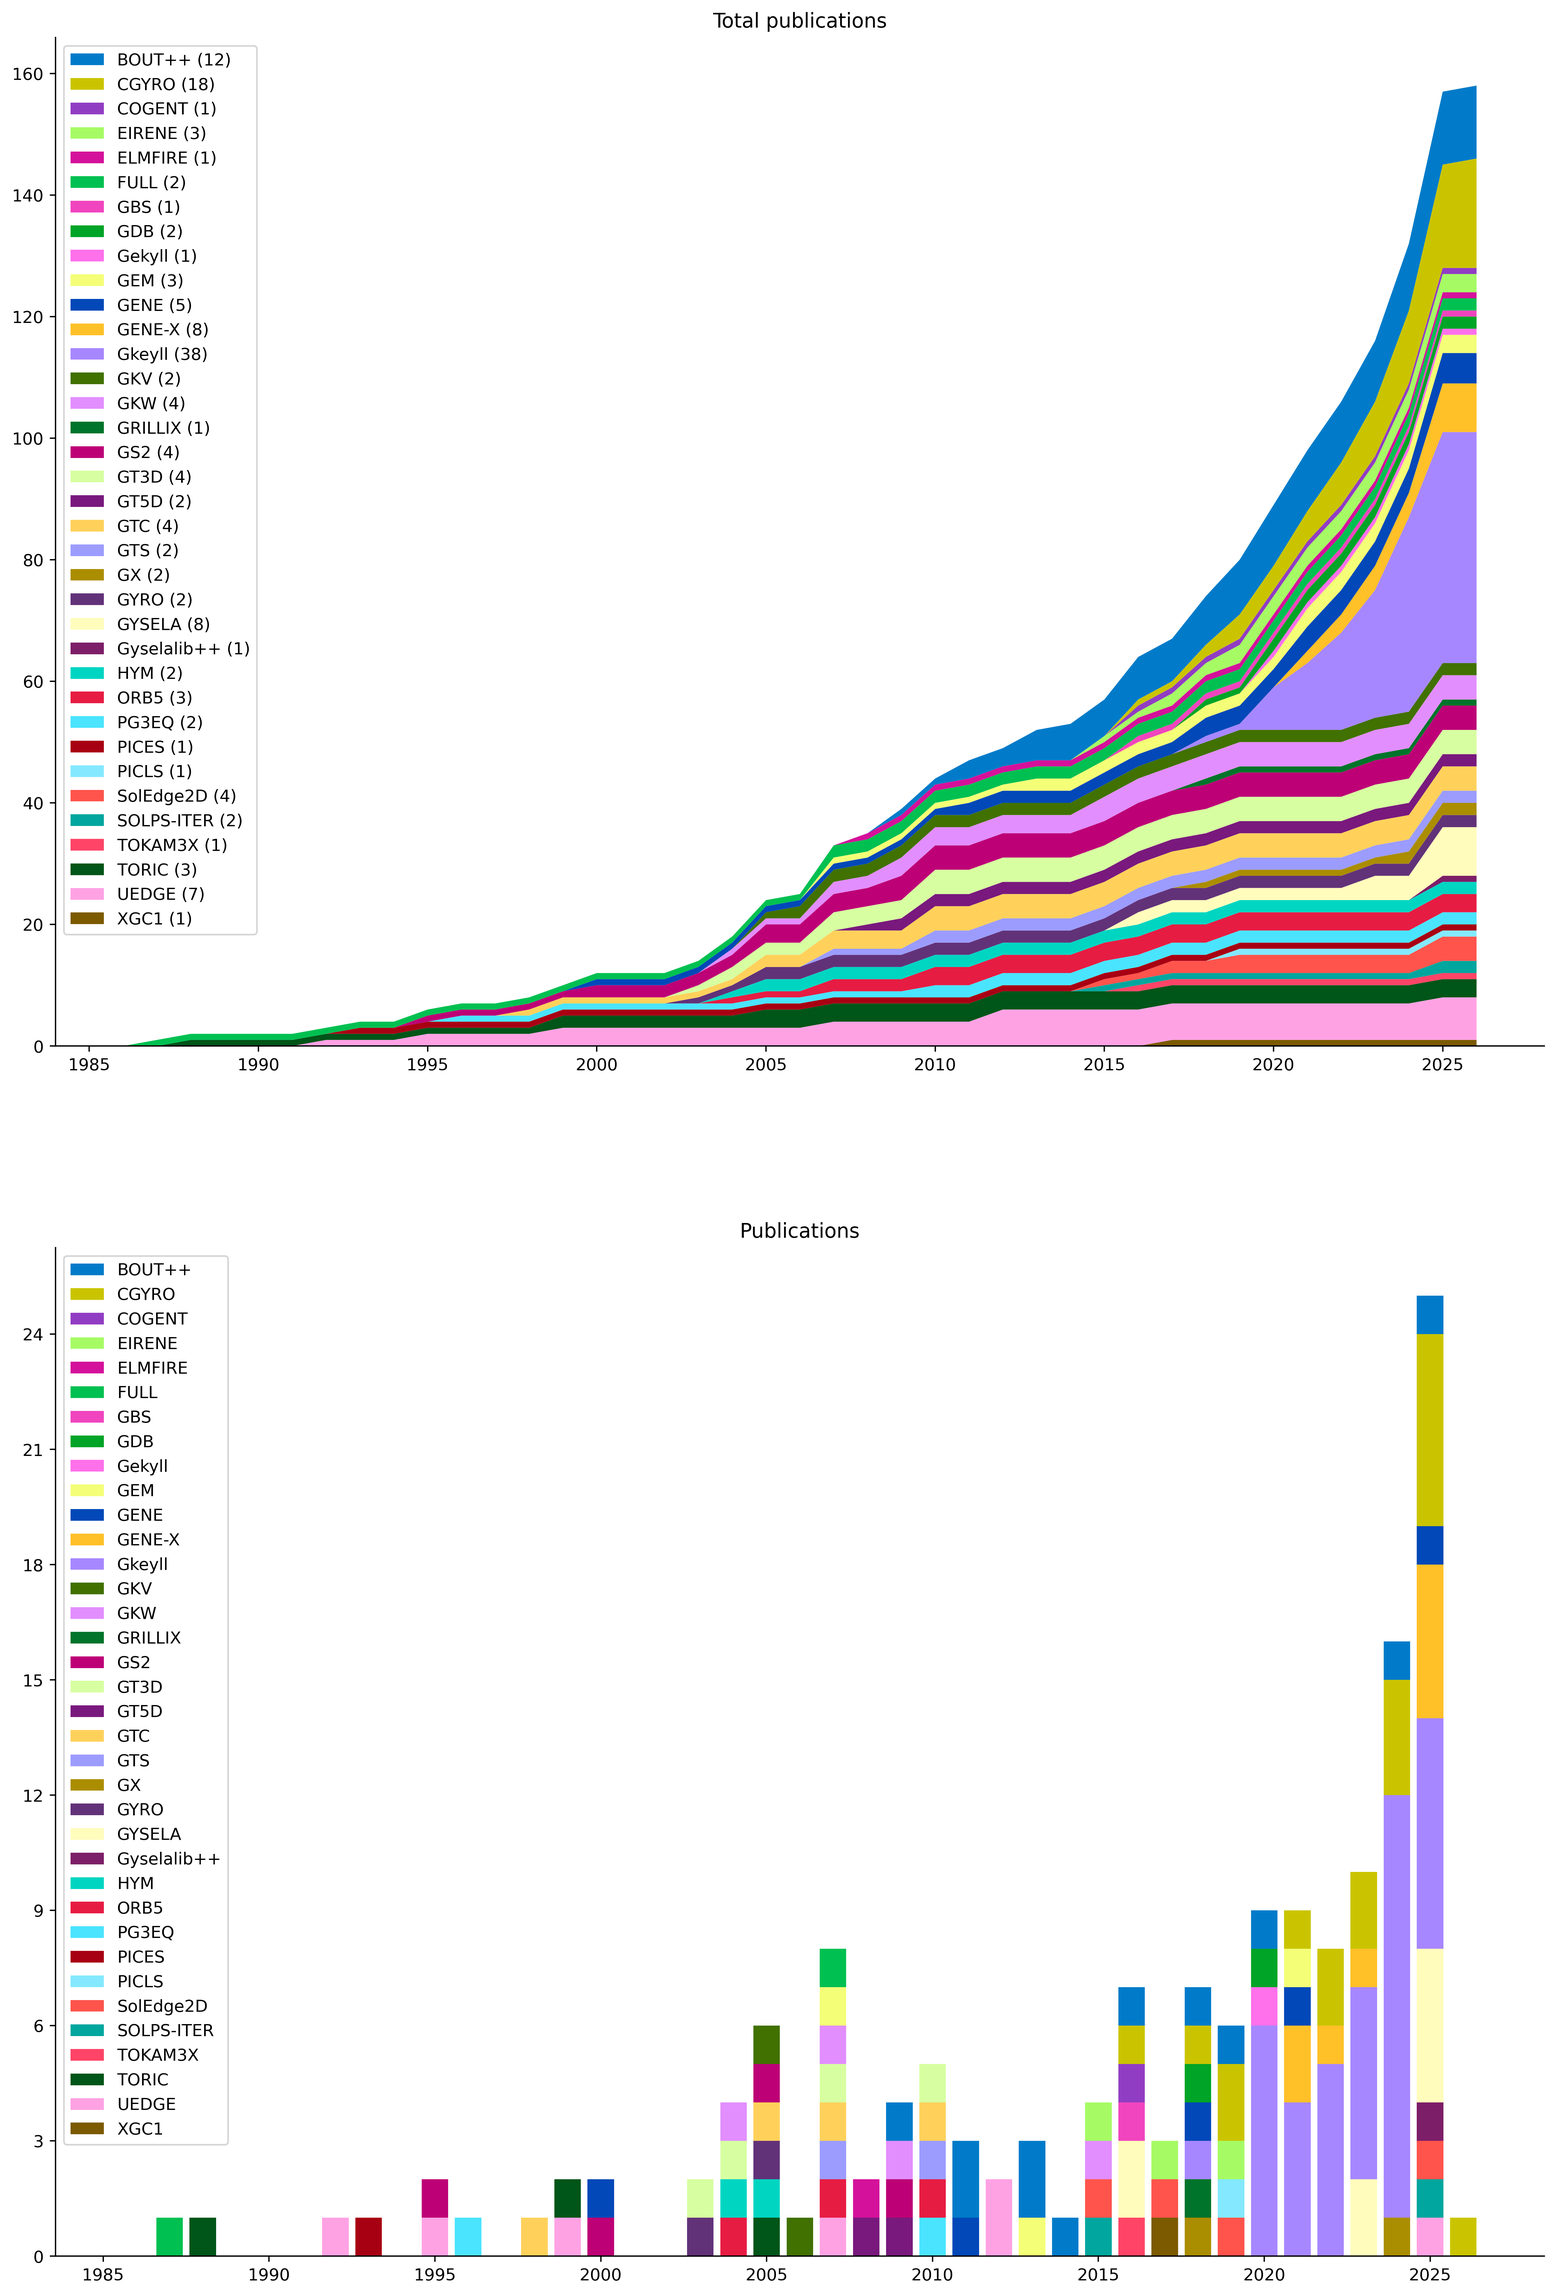
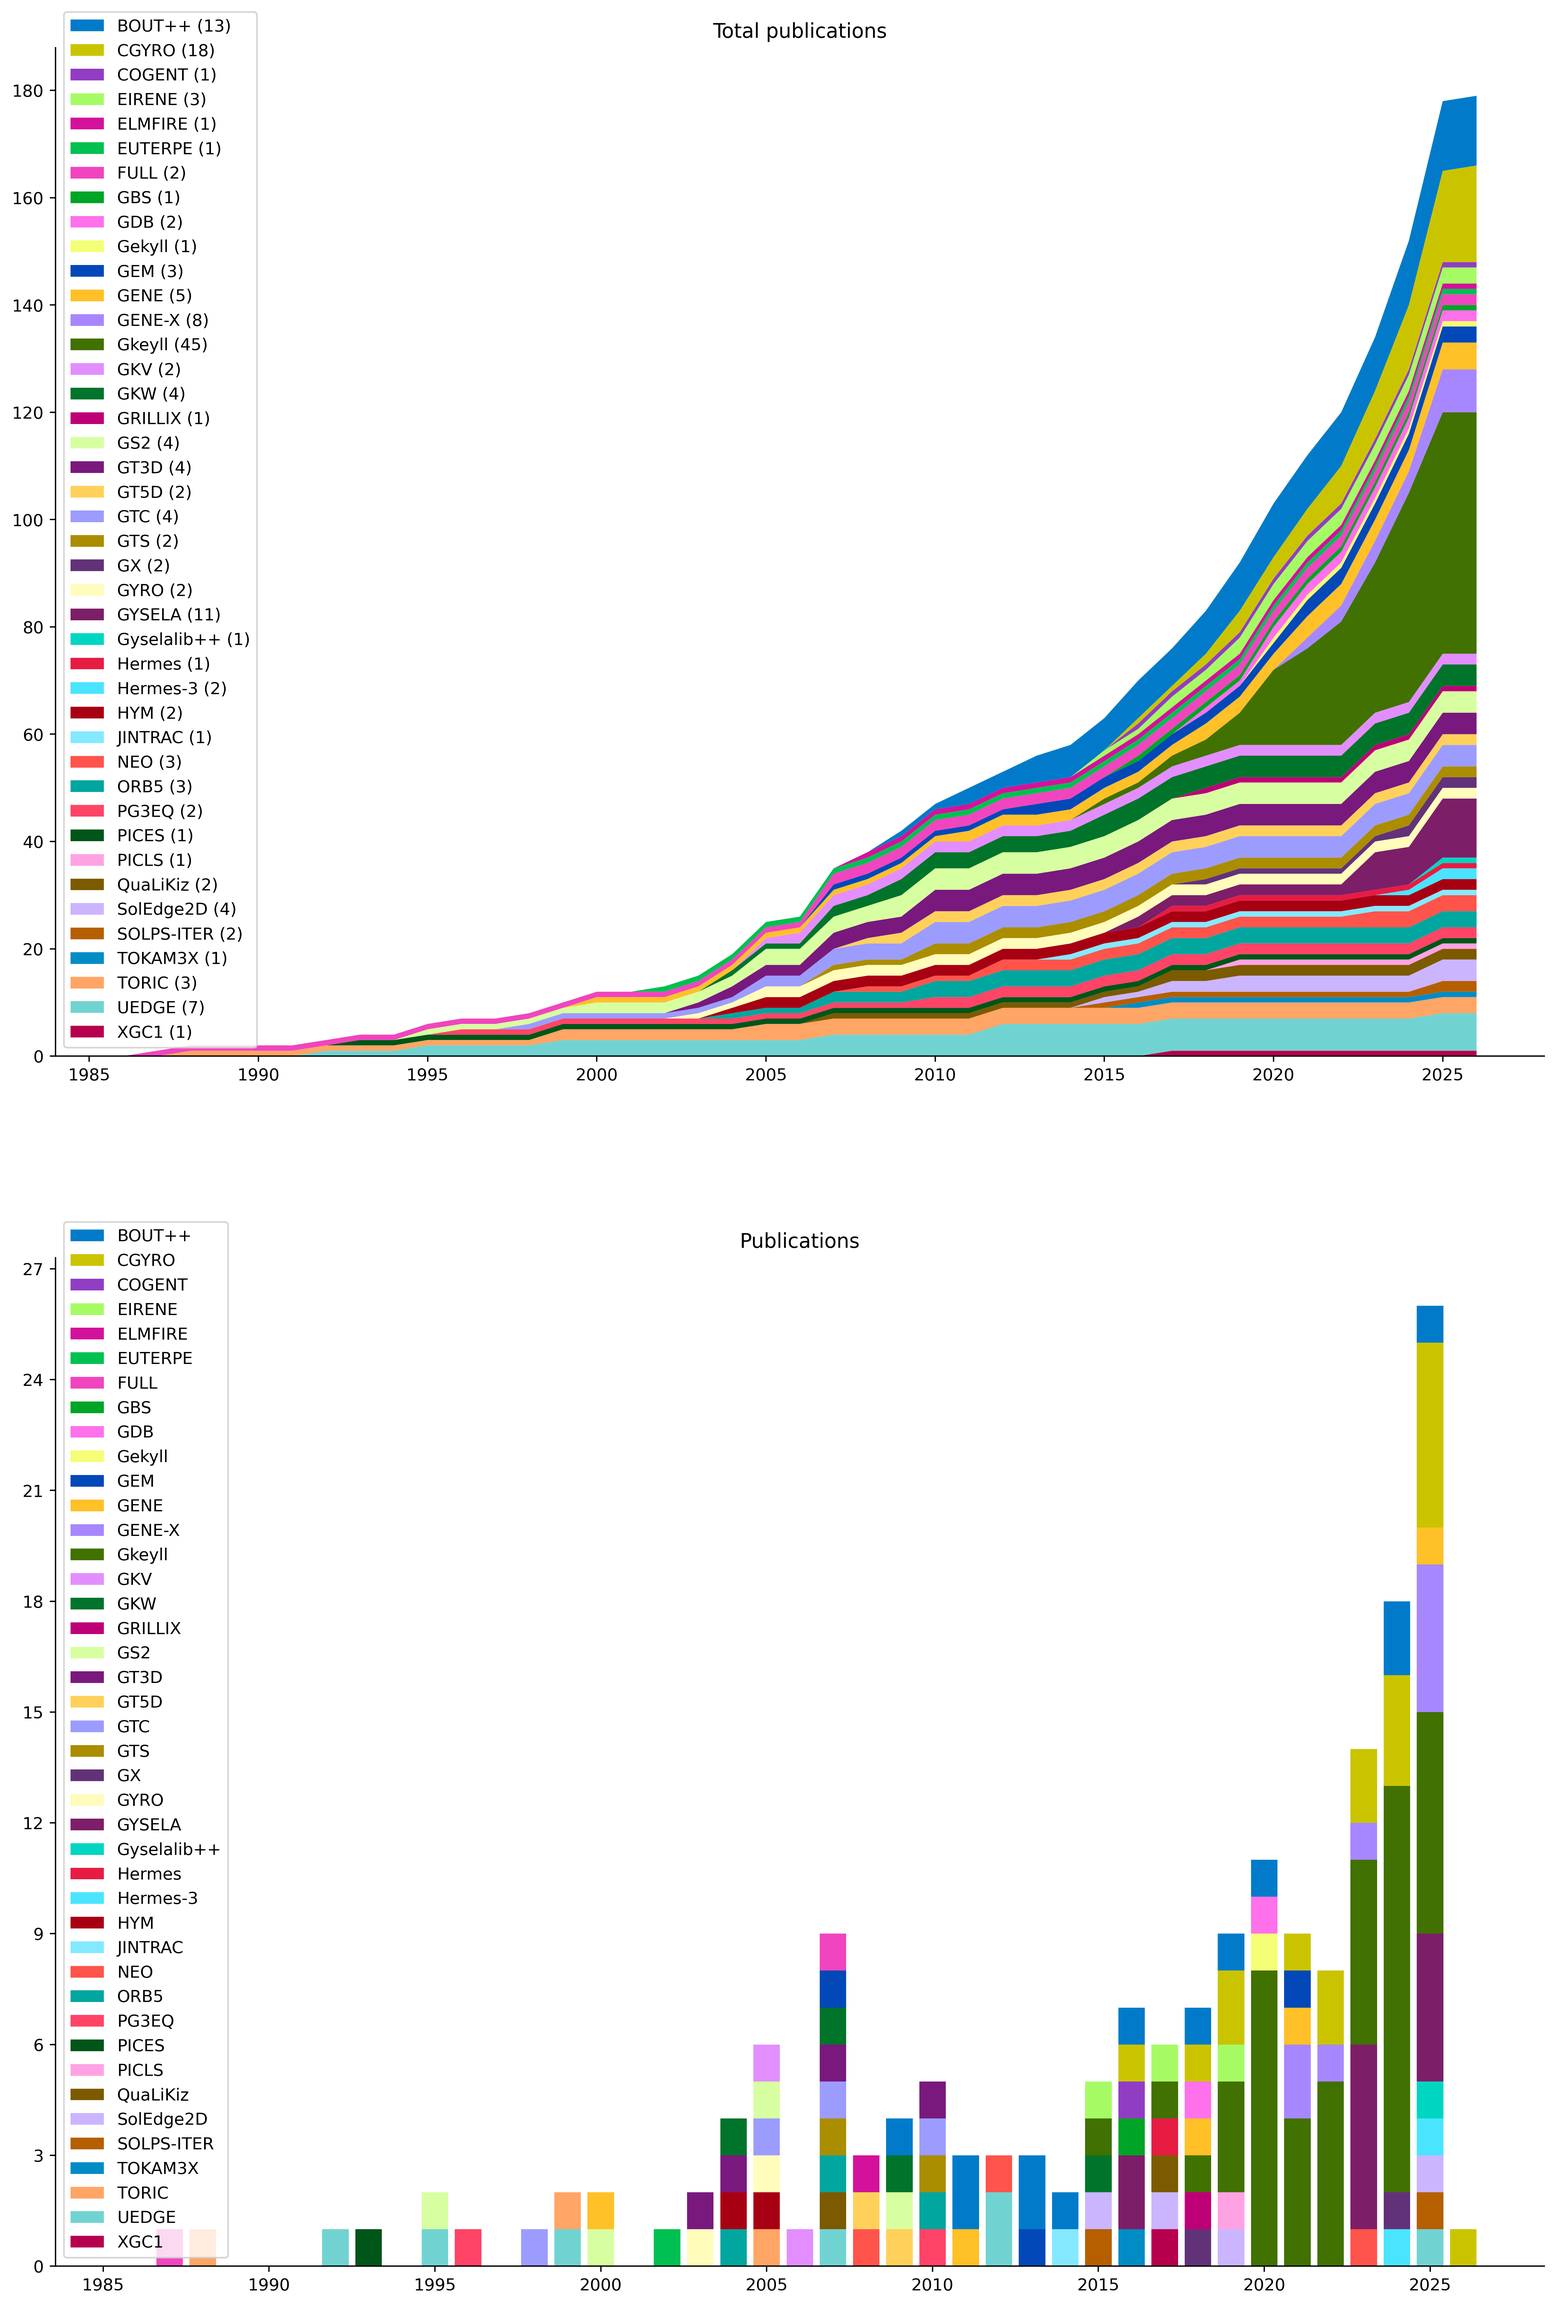
feat: add publications

diff --git a/README.md b/README.md
@@ -48,6 +48,8 @@
   - GENE-X
 - Simulations of edge and SOL turbulence in diverted negative and positive triangularity plasmas. Ulbl at el. (2025) [10.1088/1741-4326/adfd70](https://doi.org/10.1088/1741-4326/adfd70)
   - GENE-X
+- Modeling of convective cells, turbulence, and transport induced by a radio-frequency antenna in the tokamak boundary plasma. Umansky at el. (2025) [10.1088/1361-6587/ae1bd1](https://doi.org/10.1088/1361-6587/ae1bd1)
+  - Hermes-3
 - The simulation of mode coupling during ELM crash by using BOUT++. Zhu at el. (2025) [10.1063/5.0270211](https://doi.org/10.1063/5.0270211)
   - BOUT++
 - Plasma edge and scrape-off layer turbulence in gyrokinetic simulations of negative triangularity plasmas. Bernard at el. (2024) [10.1088/1361-6587/ad8186](https://doi.org/10.1088/1361-6587/ad8186)
@@ -58,6 +60,8 @@
   - Gkeyll
 - The kinetic analog of the pressure-strain interaction. Conley at el. (2024) [10.1063/5.0231200](https://doi.org/10.1063/5.0231200)
   - Gkeyll
+- Hermes-3: Multi-component plasma simulations with BOUT++. Dudson at el. (2024) [10.1016/j.cpc.2023.108991](https://doi.org/10.1016/j.cpc.2023.108991)
+  - Hermes-3, BOUT++
 - Scale Separation Effects on Simulations of Plasma Turbulence. Edyvean at el. (2024) [10.3847/1538-4357/ad5cf5](https://doi.org/10.3847/1538-4357/ad5cf5)
   - Gkeyll
 - Conservative discontinuous Galerkin interpolation: Sheared boundary conditions. Francisquez at el. (2024) [10.1016/j.cpc.2024.109109](https://doi.org/10.1016/j.cpc.2024.109109)
@@ -84,10 +88,14 @@
   - Gkeyll
 - Effect of neutral interactions on parallel transport and blob dynamics in gyrokinetic scrape-off layer simulations. Bernard at el. (2023) [10.1063/5.0160588](https://doi.org/10.1063/5.0160588)
   - Gkeyll
+- Solver comparison for Poisson-like equations on tokamak geometries. Bourne at el. (2023) [10.1016/j.jcp.2023.112249](https://doi.org/10.1016/j.jcp.2023.112249)
+  - GYSELA
 - An investigation of shock formation vs shock mitigation of colliding plasma jets. Cagas at el. (2023) [10.1063/5.0135389](https://doi.org/10.1063/5.0135389)
   - Gkeyll
 - Toward continuum gyrokinetic study of high-field mirrors. Francisquez at el. (2023) [10.1063/5.0152440](https://doi.org/10.1063/5.0152440)
   - Gkeyll
+- The problem of capturing marginality in model reductions of turbulence. Gillot at el. (2023) [10.1088/1361-6587/acc276](https://doi.org/10.1088/1361-6587/acc276)
+  - GYSELA
 - Phase-space Energization of Ions in Oblique Shocks. Juno at el. (2023) [10.3847/1538-4357/acaf53](https://doi.org/10.3847/1538-4357/acaf53)
   - Gkeyll
 - Self-consistent gyrokinetic modeling of turbulent and neoclassical tungsten transport in toroidally rotating plasmas. Lim at el. (2023) [10.1063/5.0157428](https://doi.org/10.1063/5.0157428)
@@ -100,6 +108,8 @@
   - CGYRO
 - Influence of collisions on the validation of global gyrokinetic simulations in the edge and scrape-off layer of TCV. Ulbl at el. (2023) [10.1063/5.0144688](https://doi.org/10.1063/5.0144688)
   - GENE-X
+- Impact of magnetic ripple on neoclassical equilibrium in gyrokinetic simulations. Varennes at el. (2023) [10.1088/1361-6587/acb79a](https://doi.org/10.1088/1361-6587/acb79a)
+  - GYSELA, NEO
 - Safety factor influence on the edge *E×B* velocity establishment in tokamak plasmas. Varennes at el. (2023) [10.1088/1361-6587/ad1653](https://doi.org/10.1088/1361-6587/ad1653)
   - GYSELA
 - Comparing single-node and multi-node performance of an important fusion HPC code benchmark. Belli at el. (2022) [10.1145/3491418.3535130](https://doi.org/10.1145/3491418.3535130)
@@ -132,6 +142,8 @@
   - GENE-X
 - Implementation and verification of a conservative, multi-species, gyro-averaged, full-*f*, Lenard-Bernstein/Dougherty collision operator in the gyrokinetic code GENE-X. Ulbl at el. (2021) [10.1002/ctpp.202100180](https://doi.org/10.1002/ctpp.202100180)
   - GENE-X
+- Investigating shear flow through continuum gyrokinetic simulations of limiter biasing in the Texas Helimak. Bernard at el. (2020) [10.1063/5.0003904](https://doi.org/10.1063/5.0003904)
+  - Gkeyll
 - Plasma-material boundary conditions for discontinuous Galerkin continuum-kinetic simulations, with a focus on secondary electron emission. Cagas at el. (2020) [10.1016/j.jcp.2019.109215](https://doi.org/10.1016/j.jcp.2019.109215)
   - Gkeyll
 - Conservative discontinuous Galerkin scheme of a gyro-averaged Dougherty collision operator. Francisquez at el. (2020) [10.1088/1741-4326/aba0c9](https://doi.org/10.1088/1741-4326/aba0c9)
@@ -142,11 +154,15 @@
   - Gkeyll
 - Alias-Free, Matrix-Free, and Quadrature-Free Discontinuous Galerkin Algorithms for (Plasma) Kinetic Equations. Hakim and Juno (2020) [10.1109/SC41405.2020.00077](https://doi.org/10.1109/SC41405.2020.00077)
   - Gkeyll
+- Continuum electromagnetic gyrokinetic simulations of turbulence in the tokamak scrape-off layer and laboratory devices. Hakim at el. (2020) [10.1063/1.5141157](https://doi.org/10.1063/1.5141157)
+  - Gkeyll
 - Simulations of divertor heat flux width using transport code with cross-field drifts under the BOUT++ framework. Li at el. (2020) [10.1063/1.5126884](https://doi.org/10.1063/1.5126884)
   - BOUT++
 - Electromagnetic full-*f* gyrokinetics in the tokamak edge with discontinuous Galerkin methods. Mandell at el. (2020) [10.1017/S0022377820000070](https://doi.org/10.1017/S0022377820000070)
   - Gkeyll
 - Exact and locally implicit source term solvers for multifluid-Maxwell systems. Wang at el. (2020) [10.1016/j.jcp.2020.109510](https://doi.org/10.1016/j.jcp.2020.109510)
+  - Gkeyll
+- Gyrokinetic continuum simulations of plasma turbulence in the Texas Helimak. Bernard at el. (2019) [10.1063/1.5085457](https://doi.org/10.1063/1.5085457)
   - Gkeyll
 - Collisional gyrokinetic full-f particle-in-cell simulations on open field lines with PICLS. Boesl at el. (2019) [10.1002/ctpp.201900117](https://doi.org/10.1002/ctpp.201900117)
   - PICLS, full-f, particle-in-cell
@@ -158,6 +174,10 @@
   - SolEdge2D, EIRENE
 - CGYRO Performance on Power9 CPUs and Volta GPUs. Sfiligoi at el. (2019) [10.1007/978-3-030-02465-9_24](https://doi.org/10.1007/978-3-030-02465-9_24)
   - CGYRO
+- Full-*f* gyrokinetic simulation of turbulence in a helical open-field-line plasma. Shi at el. (2019) [10.1063/1.5074179](https://doi.org/10.1063/1.5074179)
+  - Gkeyll, full-f
+- Temperature-dependent Saturation of Weibel-type Instabilities in Counter-streaming Plasmas. Skoutnev at el. (2019) [10.3847/2041-8213/ab0556](https://doi.org/10.3847/2041-8213/ab0556)
+  - Gkeyll
 - Discontinuous Galerkin algorithms for fully kinetic plasmas. Juno at el. (2018) [10.1016/j.jcp.2017.10.009](https://doi.org/10.1016/j.jcp.2017.10.009)
   - Gkeyll
 - Calculation of two-dimension radial electric field in boundary plasmas by using BOUT++. Li at el. (2018) [10.1016/j.cpc.2018.03.003](https://doi.org/10.1016/j.cpc.2018.03.003)
@@ -174,6 +194,12 @@
   - SolEdge2D, EIRENE
 - Gyrokinetic projection of the divertor heat-flux width from present tokamaks to ITER. Chang at el. (2017) [10.1088/1741-4326/aa7efb](https://doi.org/10.1088/1741-4326/aa7efb)
   - XGC1
+- Tractable flux-driven temperature, density, and rotation profile evolution with the quasilinear gyrokinetic transport model QuaLiKiz. Citrin at el. (2017) [10.1088/1361-6587/aa8aeb](https://doi.org/10.1088/1361-6587/aa8aeb)
+  - QuaLiKiz
+- Hermes: global plasma edge fluid turbulence simulations. Dudson and Leddy (2017) [10.1088/1361-6587/aa63d2](https://doi.org/10.1088/1361-6587/aa63d2)
+  - Hermes
+- Gyrokinetic continuum simulation of turbulence in a straight open-field-line plasma. Shi at el. (2017) [10.1017/S002237781700037X](https://doi.org/10.1017/S002237781700037X)
+  - Gkeyll
 - An approach to increase reliability of HPC simulation, application to the Gysela5D code. Bigot at el. (2016) [10.1051/proc/201653015](https://doi.org/10.1051/proc/201653015)
   - GYSELA
 - A high-accuracy Eulerian gyrokinetic solver for collisional plasmas. Candy at el. (2016) [10.1016/j.jcp.2016.07.039](https://doi.org/10.1016/j.jcp.2016.07.039)
@@ -192,16 +218,22 @@
   - SolEdge2D, EIRENE
 - Enhanced stabilisation of trapped electron modes by collisional energy scattering in tokamaks. Manas at el. (2015) [10.1063/1.4922754](https://doi.org/10.1063/1.4922754)
   - GKW
+- A gyrokinetic one-dimensional scrape-off layer model of an edge-localized mode heat pulse. Shi at el. (2015) [10.1063/1.4907160](https://doi.org/10.1063/1.4907160)
+  - Gkeyll
 - The new SOLPS-ITER code package. Wiesen at el. (2015) [10.1016/j.jnucmat.2014.10.012](https://doi.org/10.1016/j.jnucmat.2014.10.012)
   - SOLPS-ITER
 - BOUT++: Recent and current developments. Dudson at el. (2014) [10.1017/S0022377814000816](https://doi.org/10.1017/S0022377814000816)
   - BOUT++
+- JINTRAC: A System of Codes for Integrated Simulation of Tokamak Scenarios. Romanelli at el. (2014) [10.1585/pfr.9.3403023](https://doi.org/10.1585/pfr.9.3403023)
+  - JINTRAC
 - Benchmarking gyrokinetic simulations in a toroidal flux-tube. Chen at el. (2013) [10.1063/1.4821982](https://doi.org/10.1063/1.4821982)
   - GEM
 - Five-field simulations of peeling-ballooning modes using BOUT++ code. Xia and Xu (2013) [10.1063/1.4801006](https://doi.org/10.1063/1.4801006)
   - BOUT++
 - Six-field two-fluid simulations of peeling-ballooning modes using BOUT++. Xia at el. (2013) [10.1088/0029-5515/53/7/073009](https://doi.org/10.1088/0029-5515/53/7/073009)
   - BOUT++
+- Full linearized Fokker-Planck collisions in neoclassical transport simulations. Belli and Candy (2012) [10.1088/0741-3335/54/1/015015](https://doi.org/10.1088/0741-3335/54/1/015015)
+  - NEO
 - Coupled core-edge simulations of H-mode buildup using the Fusion Application for Core-Edge Transport Simulations (FACETS) code. Hakim at el. (2012) [10.1063/1.3693148](https://doi.org/10.1063/1.3693148)
   - UEDGE
 - Improving parallel scalability for edge plasma transport simulations with neutral gas species. McCourt at el. (2012) [10.1088/1749-4699/5/1/014012](https://doi.org/10.1088/1749-4699/5/1/014012)
@@ -210,6 +242,8 @@
   - BOUT++
 - The global version of the gyrokinetic turbulence code GENE. Görler at el. (2011) [10.1016/j.jcp.2011.05.034](https://doi.org/10.1016/j.jcp.2011.05.034)
   - GENE
+- Vlasov modelling of parallel transport in a tokamak scrape-off layer. Manfredi at el. (2011) [10.1088/0741-3335/53/1/015012](https://doi.org/10.1088/0741-3335/53/1/015012)
+  - edge-localized modes
 - Nonlinear ELM simulations based on a nonideal peeling-ballooning model using the BOUT++ code. Xu at el. (2011) [10.1088/0029-5515/51/10/103040](https://doi.org/10.1088/0029-5515/51/10/103040)
   - BOUT++
 - Gyrokinetic simulations of turbulent transport. Garbet at el. (2010) [10.1088/0029-5515/50/4/043002](https://doi.org/10.1088/0029-5515/50/4/043002)
@@ -222,10 +256,14 @@
   - GT5D
 - The nonlinear gyro-kinetic flux tube code GKW. Peeters at el. (2009) [10.1016/j.cpc.2009.07.001](https://doi.org/10.1016/j.cpc.2009.07.001)
   - GKW
+- Kinetic calculation of neoclassical transport including self-consistent electron and impurity dynamics. Belli and Candy (2008) [10.1088/0741-3335/50/9/095010](https://doi.org/10.1088/0741-3335/50/9/095010)
+  - NEO
 - Full *f* gyrokinetic method for particle simulation of tokamak transport. Heikkinen at el. (2008) [10.1016/j.jcp.2008.02.013](https://doi.org/10.1016/j.jcp.2008.02.013)
   - ELMFIRE
 - Conservative global gyrokinetic toroidal full-*f* five-dimensional Vlasov simulation. Idomura at el. (2008) [10.1016/j.cpc.2008.04.005](https://doi.org/10.1016/j.cpc.2008.04.005)
   - GT5D
+- A new gyrokinetic quasilinear transport model applied to particle transport in tokamak plasmas. Bourdelle at el. (2007) [10.1063/1.2800869](https://doi.org/10.1063/1.2800869)
+  - QuaLiKiz
 - Introducing FACETS, the Framework Application for Core-Edge Transport Simulations. Cary at el. (2007) [10.1088/1742-6596/78/1/012086](https://doi.org/10.1088/1742-6596/78/1/012086)
   - UEDGE
 - Electromagnetic gyrokinetic *δf* particle-in-cell turbulence simulation with realistic equilibrium profiles and geometry. Chen and Parker (2007) [10.1016/j.jcp.2006.05.028](https://doi.org/10.1016/j.jcp.2006.05.028)
@@ -253,6 +291,8 @@
   - GYRO
 - Global gyrokinetic simulation of ion temperature gradient driven turbulence in plasmas using a canonical Maxwellian distribution. Idomura at el. (2003) [10.1088/0029-5515/43/4/303](https://doi.org/10.1088/0029-5515/43/4/303)
   - GT3D
+- Energy conservation in a nonlinear gyrokinetic particle-in-cell code for ion-temperature-gradient-driven modes in θ-pinch geometry. Hatzky at el. (2002) [10.1063/1.1449889](https://doi.org/10.1063/1.1449889)
+  - EUTERPE
 - Electron Temperature Gradient Turbulence. Dorland at el. (2000) [10.1103/PhysRevLett.85.5579](https://doi.org/10.1103/PhysRevLett.85.5579)
   - GS2
 - Electron temperature gradient driven turbulence. Jenko at el. (2000) [10.1063/1.874014](https://doi.org/10.1063/1.874014)
